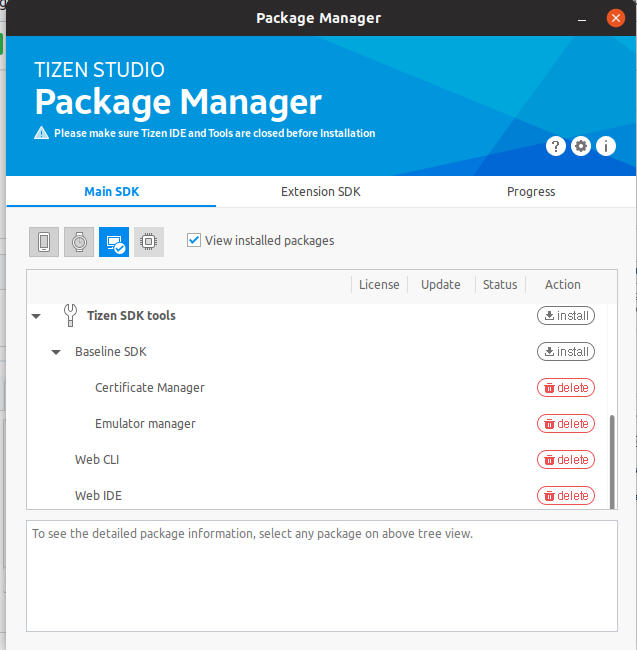
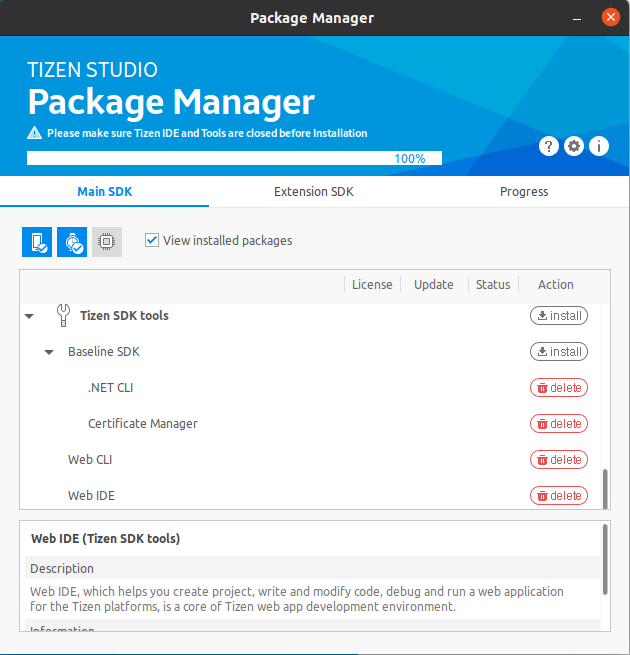
Update README.md

diff --git a/README.md b/README.md
@@ -173,10 +173,11 @@ If you are on ubuntu 19 or above 20.4 libwebkitgtk-1.0-0 ins't availeble, in tha
 ## Tizen Package Manager(Installing the tools)
 
 * Open **Tizen Package Manager** to start installing the bellow (some may already be installed by default)
-* Main tab **(Main SDK)** Install **Tizen SDK tools**,  **(on Linux it may request you to use apt-get to install missing dependencies)**
+* Main tab **(Main SDK)** Install **Tizen SDK tools** (Emulator manager not necessary),  **(on Linux it may request you to use apt-get to install missing dependencies)**
 
 ![mainsdk](https://fgl27.github.io/smarttv-twitch/screenshot/install/sdk_2.png)
-* Second tab **(Extension SDK)** under **TV Extensions-5.X** (or wherever X.X TV version there is) install **Web app. Development**, install **Samsung Certificate Extension** and under **TV Extension Tools** install **Web app. Tools** (on Linux it may request you to use apt-get to install missing dependencies)
+
+* Second tab **(Extension SDK)** under **TV Extensions-5.X** (or wherever X.X TV version there is) install **Web app. Development**, install **Samsung Certificate Extension** and under **TV Extension Tools** install **Web app. Tools**
 
 ![extensionsdk](https://fgl27.github.io/smarttv-twitch/screenshot/install/sdk_4.png)
 
